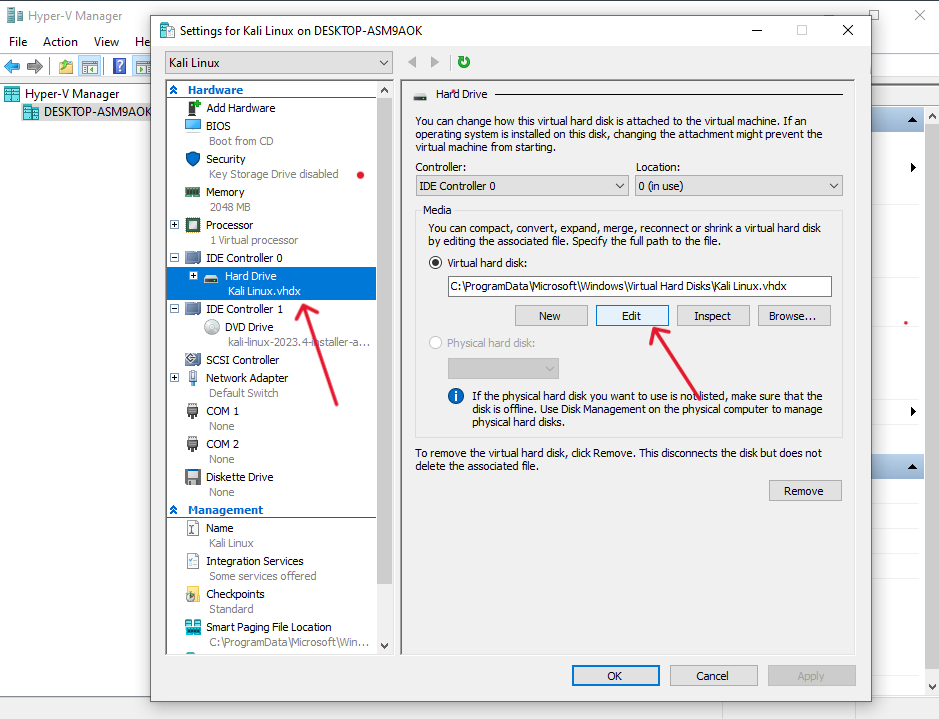
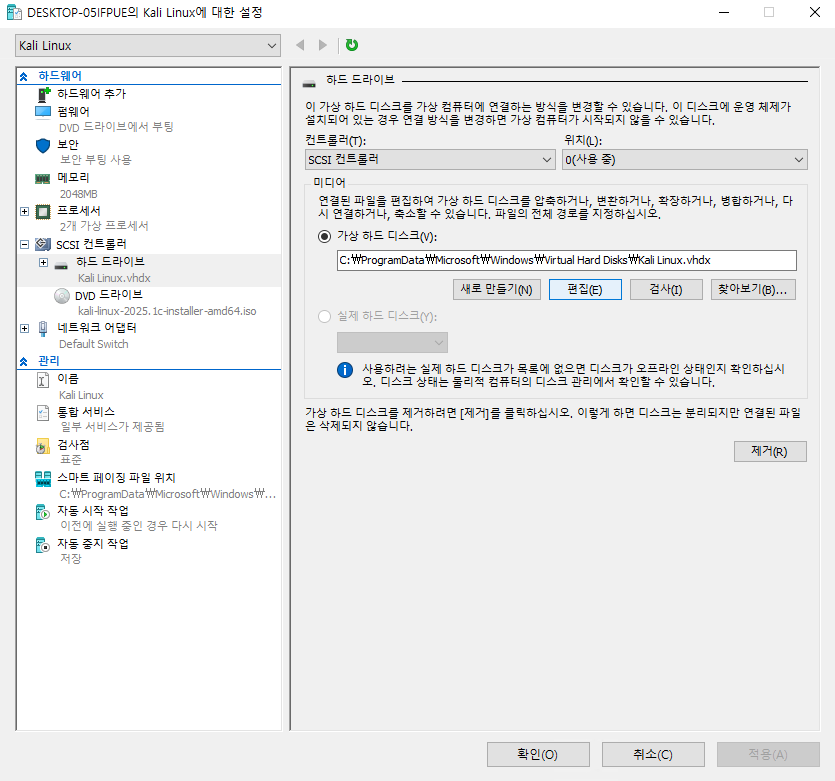
Hyper-V, Parallels 가이드 번역 및 이미지 수정 (#7)
* VMX -> OVA 변환 가이드 번역

* vmx → ova 변환가이드 번역/문구 수정

* vmx → ova 변환가이드 번역/문구 수정

* Hyper-V 설치 가이드 번역/이미지 수정

* Parallels 설치 가이드 번역

Changed region(s): [[0.0, 0.0, 1.0, 1.0], [0.9653, 0.0, 0.9964, 0.0306]]

diff --git a/virtualization/install-parallels-guest-vm/index.md b/virtualization/install-parallels-guest-vm/index.md
@@ -1,103 +1,102 @@
 ---
-title: Kali inside Parallels (Guest VM)
+title: Parallels 안의 Kali (게스트 VM)
 description:
 icon:
 weight: 195
 author: ["steev",]
 ---
 
-This guide is about virtualizing Kali Linux inside of Parallels, allowing you to have a Kali VM. This is a great way to use Kali, as it is completely separate from the host, allows you to interact with other VMs (as well as the host, and other machines on the network), and allows you to revert to snapshots.
+이 가이드는 가상화 Parallels 안에서 Kali Linux를 가상화하고 Kali VM을 보유하는 방법에 대해 설명해요. 이는 호스트와 완전히 분리되어 있고, 다른 VM(호스트나 네트워크에 있는 다른 머신)과 상호작용 할 수 있고 스냅샷으로 되돌릴 수 있기 때문에 Kali를 사용하기에 좋은 방법이에요.
 
-### Wizard
+### 마법사
 
-Upon starting up Parallels, select the **Plus** symbol.
+Parallels를 시작할 때, **더하기(+)** 마크를 선택하세요.
 
 ![](parallels-01.png)
 
-- - -
+---
 
-This will launch the **Installation Assistant**
+**설치 도우미**가 나타나게 돼요
 
 ![](parallels-02.png)
 
-- - -
+---
 
-Now we choose **Install Windows or another OS from a DVD or image file**
+이제 **DVD 또는 이미지 파일의 Windows나 다른 OS 설치**를 선택하세요
 
 ![](parallels-03.png)
 
-- - -
+---
 
-On this screen, we select the Kali Linux image to use to install from. We select "**Choose Manually**", and navigate to the location of the ISO that we [downloaded](/docs/introduction/download-official-kali-linux-images/). For more information on [what image to download, we have written up a guide](/docs/introduction/what-image-to-download/).
+이 화면에서 설치에 사용할 Kali Linux 이미지를 선택하세요. "**수동 선택**"을 선택하고, [다운로드된](/docs/introduction/download-official-kali-linux-images/) ISO의 위치로 이동하세요. 더 많은 정보는 [다운로드할 이미지에 대해 가이드를 작성했어요](/docs/introduction/what-image-to-download/)
 
 ![](parallels-04.png)
 
-- - -
+---
 
-Either drag the ISO file or choose **Select a file...** to navigate to the downloaded ISO.
+ISO 파일을 드래그 하거나 **파일 선택...** 을 골라 다운로드한 ISO로 이동하세요.
 
 ![](parallels-05.png)
 ![](parallels-06.png)
 ![](parallels-07.png)
 
-- - -
+---
 
-Parallels does not recognize the OS on the ISO, so we will choose **Continue** to proceed anyway.
+Parallels는 ISO로 OS를 인식하지 못해요, 따라서 **계속**을 선택하여 진행하세요.
 
 ![](parallels-08.png) 
 
-- - -
+---
 
-Once we have clicked **Continue**, we want to choose **Ubuntu** from the drop down list. Normally we would choose **Debian** however, there is a bug with the Parallels Tools, that does not occur when using **Ubuntu**.
+**계속**을 클릭한 후, 드롭다운 목록에서 **Ubuntu**를 선택하세요. 일반적으로 **Debian**을 선택하지만 Parallels Tools에 버그가 존재하고, 이는 **Ubuntu**로 사용하면 발생하지 않아요.
 
 ![](parallels-09.png)
 ![](parallels-10.png)
 
-- - -
+---
 
-The next screen is "Name and Location", which is where you name the VM. This name is also used as the filename (such as the configuration, hard disk and snapshot - which is not changed from this point).
+다음 화면은 VM의 이름을 지정하는 "이름과 위치"에요. 이 이름은 파일명에도 사용돼요. (이 시점부터 구성, 하드 디스크와 스냅샷 등은 변경되지 않음)
 
-We also want to mark the check box for **Customize settings before installation**
+또한 **설치 전 설정 사용자 정의** 체크박스를 선택하세요
 
-We are keeping it generic in this guide, by using "**Kali Linux**" (as Kali Linux is a [rolling distribution](/docs/general-use/kali-branches/), and we [update Kali Linux](/docs/general-use/updating-kali/)).
+이 가이드에서는 **Kali Linux**라는 일반적인 용어를 사용해요 (Kali Linux는 [롤링 배포판](/docs/general-use/kali-branches/)이기에 우리는 [Kali Linux를 업데이트](/docs/general-use/updating-kali/)해요).
 
 ![](parallels-11.png)
 
-- - -
+---
 
-This will bring up the Configuration screen for the Virtual Machine.
+그러면 가상 머신에 대한 구성 화면이 나타나게 돼요.
 
-The next screen is "Processors". Here we can start to define how many resources we give the VM. Kali will be able to perform more tasks simultaneously and quicker if it is allocated more resources. We select "**2 processors**" and "** 2048 MB ** ", giving a total of 2 cores and 2GB of RAM. You may wish to use more or less depending on your system requirements.
-
+다음 화면은 "프로세서"에요. 여기에서 얼마나 많은 자원을 VM에게 줄지 지정할 수 있어요. Kali에 더 많은 리소스가 할당되면 더 많은 작업을 빠르게 수행할 수 있어요. "**2 프로세서**"와 "**2048 MB**"를 선택하면, 총 2 코어과 2GB의 RAM을 주게돼요. 시스템 요구사항에 따라 더 많거나 더 적게도 할 수도 있어요.
 ![](parallels-12.png)
 ![](parallels-13.png)
 
-- - -
+---
 
-Now we want to choose **Hard Disk** so we can resize the hard disk.
+**하드 디스크**를 선택하면 하드 디스크의 크기를 조정할 수 있어요.
 
-Select the **Properties** button
+**속성** 버튼을 선택하세요
 
 ![](parallels-14.png)
 
-And reduce the size to 32GB. You may wish to leave it at 64GB, or increase it, depending on your system requirements.
+그리고 크기를 32GB로 줄이세요. 시스템 요구 사항에 따라 64GB로 두거나 더 늘릴 수도 있어요.
 
 ![](parallels-15.png)
 
-Click **Apply** and you will be prompted to **Continue**
+**적용**을 클릭하면 **계속**을 클릭하라는 메시지가 표시돼요
 
 ![](parallels-16.png)
 
-Click **Continue**
+**계속**을 클릭하세요
 
 ![](parallels-17.png)
 
-- - -
+---
 
-We can now close the **Kali Linux Configuration** window, and be back at the **Installation Assistant** screen.
+이제 **Kali Linux 구성** 창을 닫고, **설치 도우미** 창으로 돌아올 수 있어요.
 
 ![](parallels-18.png)
 
-- - -
+---
 
-After all this is done, we save, start up the VM, and then continue installing Kali Linux as we normally would for a [bare metal install](/docs/installation/hard-disk-install/).
+모두 마쳤으면 저장하고 VM을 시작하세요, 그런 다음 일반적인 [베어 메탈 설치](/docs/installation/hard-disk-install/) 처럼 Kali Linux 설치를 계속하세요. 

diff --git a/virtualization/install-hyper-v-guest-vm/index.md b/virtualization/install-hyper-v-guest-vm/index.md
@@ -1,82 +1,82 @@
 ---
-title: Kali inside Hyper-V (Guest VM)
+title: Hyper-V 안의 Kali (게스트 VM)
 description:
 icon:
 weight: 215
 author: ["gamb1t","serval123"]
 ---
 
-For most Windows users Hyper-V is already enabled. However, in case it isn't enabled on your system you can follow one of the following docs pages from Microsoft:
+대부분의 Windows 사용자들은 Hyper-V가 이미 활성화되어 있어요. 하지만, 시스템에서 활성화되어 있지 않은 경우 Microsoft의 문서 페이지를 따르세요:
 
-- For [Windows 8, 8.1](https://docs.microsoft.com/en-us/previous-versions/windows/it-pro/windows-server-2012-R2-and-2012/hh846766(v=ws.11))
-- For [Windows 10, 11](https://docs.microsoft.com/en-us/virtualization/hyper-v-on-windows/quick-start/enable-hyper-v)
+- [Windows 8, 8.1](https://docs.microsoft.com/en-us/previous-versions/windows/it-pro/windows-server-2012-R2-and-2012/hh846766(v=ws.11))용
+- [Windows 10, 11](https://docs.microsoft.com/en-us/virtualization/hyper-v-on-windows/quick-start/enable-hyper-v)용
 
-After we enable Hyper-V we can create a new VM very easily. We first need to [download](/get-kali/) an installer iso. Then we can boot Hyper-V:
+Hyper-V가 활성화 되었다면 새로운 VM을 매우 쉽게 생성할 수 있어요. 우선 우리는 설치 iso [다운로드](/get-kali/)가 필요해요. 그런 다음 Hyper-V를 부팅할 수 있어요:
 
 ![](hyper-v-first-boot.png)
 
-We will need to select our computer on the left-hand side under 'Hyper-V Manager':
+왼쪽의 'Hyper-V 관리자'에서 컴퓨터를 선택하세요:
 
 ![](hyper-v-machine-look.png)
 
-We can then select 'Quick Create...' on the right-hand side:
+오른쪽의 '빨리 만들기...'를 선택하세요:
 
 ![](hyper-v-create-vm.png)
 
-We will have to configure some things on this screen. We first be sure to have selected 'Local installation source' and then select our iso after selecting 'Change installation source...'. After this we can de-select the option 'This machine will run Windows' and can also use the drop-down 'More options' menu to name our virtual machine.
+이 화면에서 설정을 구성할 수 있어요. 먼저 '로컬 설치 원본'을 선택하고 '설치 소스 변경...'으로 iso를 선택하세요. 다음 '이 가상 컴퓨터에서 Windows 실행'을 선택 해제하고 '옵션 더 보기' 드롭다운 메뉴에서 가상 머신의 이름을 정할 수 있어요.
 
-Once we are happy we can select 'Create Virtual Machine' and wait for it to finish. We will then see this screen:
+만족스러우면 '가상 컴퓨터 만들기'를 누르고 끝날 때까지 기다리세요. 그러면 다음과 같은 화면이 표시돼요:
 
 ![](hyper-v-vm-created.png)
 
-From here we can either select 'Connect' if we are confident in Windows's selections for options, or we can select 'Edit Settings...':
+Windows가 선택한 옵션이 괜찮다고 생각되면 '연결'을 선택하고, 그렇지 않다면 '설정 편집...'을 선택할 수 있어요:
+
 
 ![](hyper-v-cpu-settings.png)
 
-In the case of this machine, the only change needed was for the number of virtual processors. We dropped it down from 6 to 2. We are then ready to connect to our VM and continue [setup like normal](/docs/installation/hard-disk-install/)
+이 가상 머신의 경우 변경이 필요한 항목은 가상 프로세서 수이고 6개에서 2개로 줄였어요. 이제 VM에 연결하여 [일반적인 설치 방법](/docs/installation/hard-disk-install/)으로 계속 진행하세요
 
-- - -
+---
 
-### Expanding Storage
+### 스토리지 확장
 
 ##### Hyper-V:
 
-Ensure that your kali linux virtual machine is powered off.
+kali linux 가상 머신이 꺼져 있는지 확인해야 해요.
 
-- - -
+---
 
-Right click on your kali linux virtual machine in Hyper-V Manager and click on settings.
+Hyper-V 관리자에서 kali linux 가상 머신을 우클릭하고 설정을 클릭하세요.
 
 ![](hyper-v-1.png)
 
-- - -
+---
 
-Now click on the virtual hard drive that contain your kali linux virtual machine.
-Now click on Edit button on the dialog box on the right.
+kali linux 가상 머신의 가상 하드 드라이브를 클릭하고 오른쪽 대화 상자에서 편집 버튼을 클릭하세요.
 
 ![](hyper-v-2.png)
 
-- - -
+---
 
-Click Next.
+다음을 클릭하세요.
 
 ![](hyper-v-3.png)
 
-- - -
+---
 
-Now click on the Expand option.
+확장 옵션을 클릭하세요.
 
 ![](hyper-v-4.png)
 
-- - -
+---
 
-Enter your new size of the Virtual Machine and click next.
+가상 머신의 새 크기를 입력하고 다음을 클릭하세요.
 
 ![](hyper-v-5.png)
 
-- - -
+---
 
-Click on Finish.
+마침을 클릭하세요.
 
 ![](hyper-v-6.png)
 
